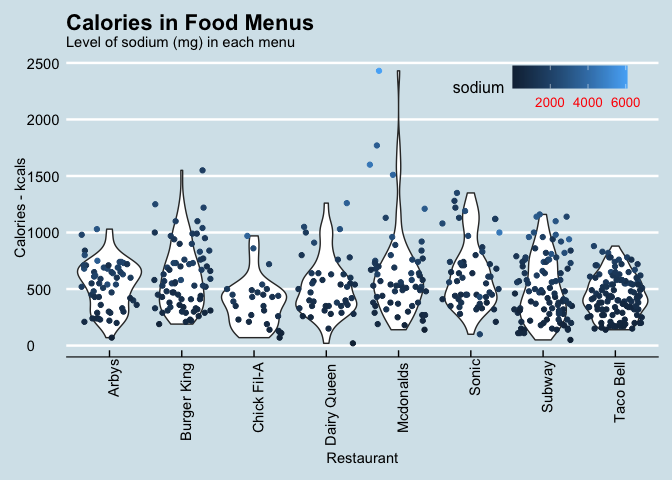
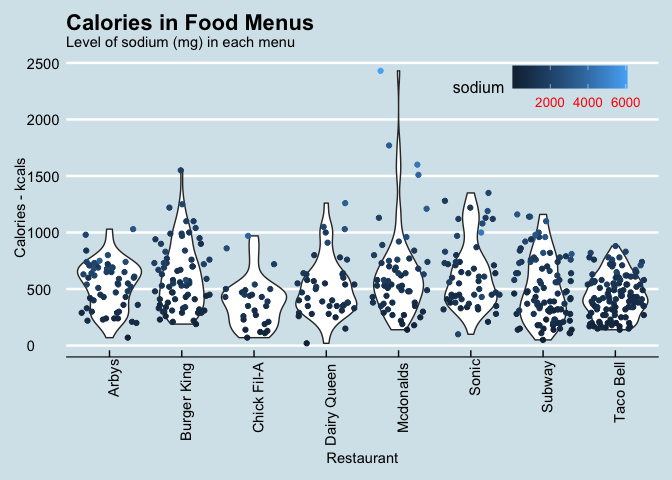
Updated

diff --git a/Consumer goods/Food/restaurant.md b/Consumer goods/Food/restaurant.md
@@ -1,0 +1,63 @@
+Restaurant
+================
+Selim Ach
+10/5/2020
+
+Very often data are presented in tabular format and the challenge is to
+be able to process information in order to provide relevant insights.
+
+It is also sometimes useful to display all the data sample, for a first
+visual inspection (e.g. identify potential outliers) and take a decision
+on how to narrow the sample to the variables of interest.
+
+Hereafter is an example of how data can be presented to have a first
+glance at the information and another chart with an additional layer of
+information.
+
+-----
+
+    ## # A tibble: 15 x 18
+    ##       X1 restaurant item  calories cal_fat total_fat sat_fat trans_fat
+    ##    <dbl> <chr>      <chr>    <dbl>   <dbl>     <dbl>   <dbl>     <dbl>
+    ##  1     1 Mcdonalds  Arti…      380      60         7       2       0  
+    ##  2     2 Mcdonalds  Sing…      840     410        45      17       1.5
+    ##  3     3 Mcdonalds  Doub…     1130     600        67      27       3  
+    ##  4     4 Mcdonalds  Gril…      750     280        31      10       0.5
+    ##  5     5 Mcdonalds  Cris…      920     410        45      12       0.5
+    ##  6     6 Mcdonalds  Big …      540     250        28      10       1  
+    ##  7     7 Mcdonalds  Chee…      300     100        12       5       0.5
+    ##  8     8 Mcdonalds  Clas…      510     210        24       4       0  
+    ##  9     9 Mcdonalds  Doub…      430     190        21      11       1  
+    ## 10    10 Mcdonalds  Doub…      770     400        45      21       2.5
+    ## 11    11 Mcdonalds  File…      380     170        18       4       0  
+    ## 12    12 Mcdonalds  Garl…      620     300        34      13       1.5
+    ## 13    13 Mcdonalds  Gril…      530     180        20       7       0  
+    ## 14    14 Mcdonalds  Cris…      700     300        34       9       0  
+    ## 15    15 Mcdonalds  Hamb…      250      70         8       3       0  
+    ## # … with 10 more variables: cholesterol <dbl>, sodium <dbl>, total_carb <dbl>,
+    ## #   fiber <dbl>, sugar <dbl>, protein <dbl>, vit_a <dbl>, vit_c <dbl>,
+    ## #   calcium <dbl>, salad <chr>
+
+![](restaurant_files/figure-gfm/unnamed-chunk-1-1.png)<!-- -->
+
+This chart is an overview of the fast food restaurants and associated
+menus with an indication of their level of calories. The possibilities
+to plot each menu (a dot by menu) is an interesting feature to grasp an
+ideal of the number of menus offered by each restaurant.
+
+![](restaurant_files/figure-gfm/unnamed-chunk-2-1.png)<!-- -->
+
+In addition to the level of calories per menu, this chart allows also to
+display an extra dimension, here it is the level of sodium and the shape
+of the distribution. In this way, it is possible to offer a complete
+overview, within a single graph of the range of calories by menu (and by
+restaurant) as well as its associated level of sodium.
+
+-----
+
+Another interesting possibility is to create a chart that will
+facilitate the comparisons between restaurants in terms of average
+calories served per menu. The chart below is an example of such
+visualization using treemap.
+
+![](restaurant_files/figure-gfm/unnamed-chunk-3-1.png)<!-- -->
